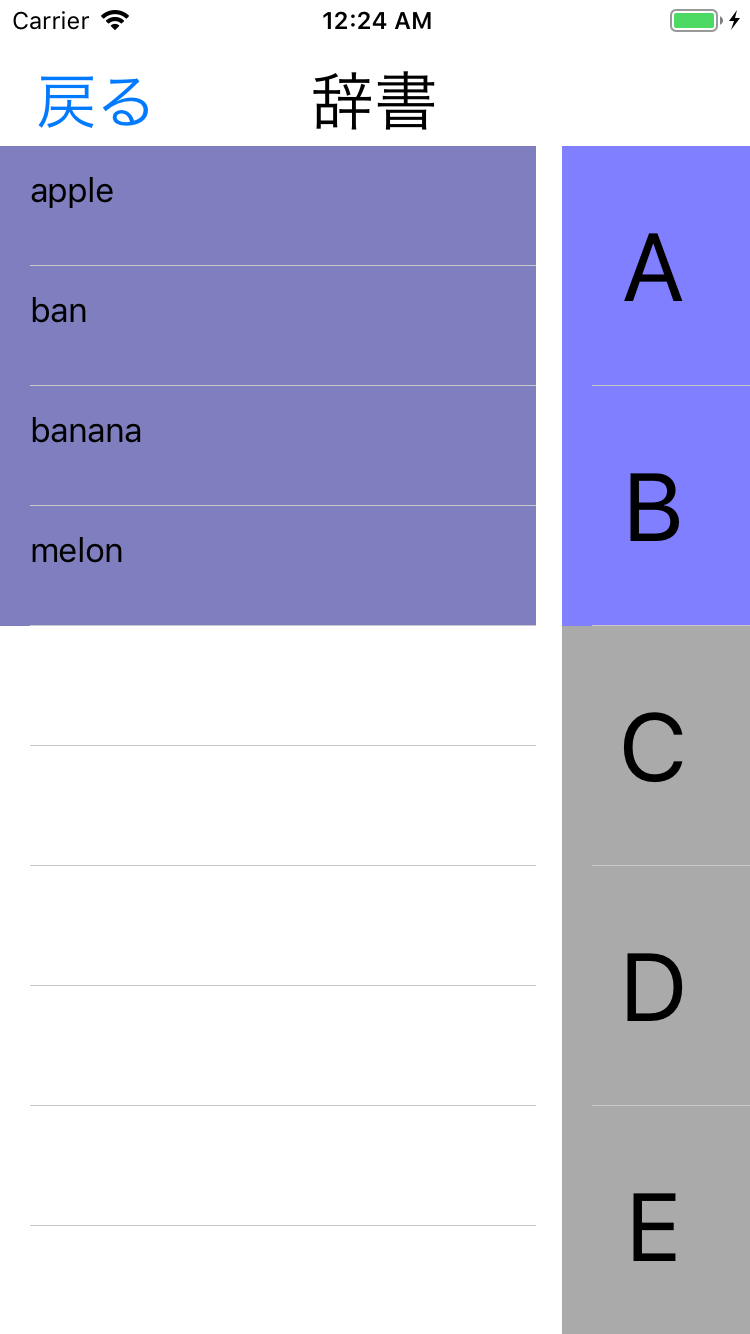
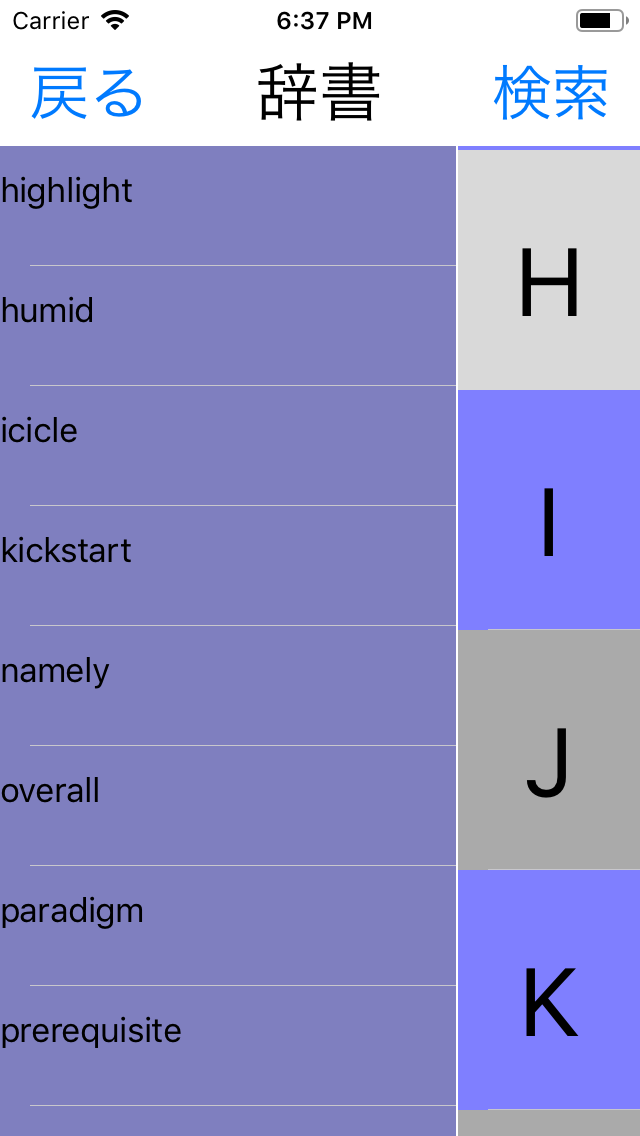
辞書画面でサイドバーのアルファベット押すとそのアルファベットから始まる最初の単語が一番上にスクロールされるように実装

diff --git a/EnglishWords/EnglishWords/DictionaryViewController.swift b/EnglishWords/EnglishWords/DictionaryViewController.swift
@@ -24,10 +24,13 @@ class DictionaryViewController: UIViewController, UITableViewDelegate, UITableVi
     var wordlist: [Word] = []
     var selectedWord: Word?
     
-    let alphabet = ["A","B","C","D","E","F","G","H","I","J","K","L","M","N","O","P","Q","R","S","T","U","V","W","X","Y","Z"]
+    //セルの高さ
+    let cellHeight: CGFloat = 60
     
+    let alphabet = ["A","B","C","D","E","F","G","H","I","J","K","L","M","N","O","P","Q","R","S","T","U","V","W","X","Y","Z"]
     let smallalphabet = ["a","b","c","d","e","f","g","h","i","j","k","l","m","n","o","p","q","r","s","t","u","v","w","x","y","z"]
     var alphabetlocked: [Bool] = []
+    var alphabetIndex: [Int] = []
     
     override func viewDidLoad() {
         super.viewDidLoad()
@@ -38,10 +41,16 @@ class DictionaryViewController: UIViewController, UITableViewDelegate, UITableVi
         wordlist = Array(results)
         
         for i in 0..<smallalphabet.count {
-            if results.filter("wordName BEGINSWITH %@", smallalphabet[i]).count > 0 {
+            let resultsOfi = results.filter("wordName BEGINSWITH %@", smallalphabet[i]).sorted(byKeyPath: "wordName", ascending: true)
+            if resultsOfi.count > 0 {
                 alphabetlocked.append(true)
+                
+                let firstWord = resultsOfi.first
+                let index = wordlist.index(of: firstWord!)
+                alphabetIndex.append(index!)
             }else{
                 alphabetlocked.append(false)
+                alphabetIndex.append(0)
             }
         }
         
@@ -154,6 +163,9 @@ class DictionaryViewController: UIViewController, UITableViewDelegate, UITableVi
                 // ConfigureWordViewController へ遷移するために Segue を呼び出す
                 performSegue(withIdentifier: "fromDictionarytoConfigureWord", sender: nil)
             }
+        }else{
+            //テーブルを指定したアルファベットの単語までスクロール
+            scrolltoTopofSelectedAlphabetCell(wordIndex: indexPath.row)
         }
     }
     
@@ -212,9 +224,9 @@ class DictionaryViewController: UIViewController, UITableViewDelegate, UITableVi
     func tableView(_ table: UITableView,
                    heightForRowAt indexPath: IndexPath) -> CGFloat {
         if table.tag == 1 {
-            return 120.0
+            return cellHeight*2
         }else{
-            return 60.0
+            return cellHeight
         }
     }
     
@@ -230,5 +242,12 @@ class DictionaryViewController: UIViewController, UITableViewDelegate, UITableVi
         
         // アラート表示
         self.present(alert, animated: true, completion: nil)
+    }
+    
+    func scrolltoTopofSelectedAlphabetCell(wordIndex: Int){
+        //サイドバーで選択したアルファベットから始まる単語がテーブルの一番上にスクロールされるようにする
+        let rowheight: CGFloat = cellHeight
+        let offset = CGPoint(x:0,y:rowheight*CGFloat(alphabetIndex[wordIndex]))
+        table.setContentOffset(offset, animated: true)
     }
 }
